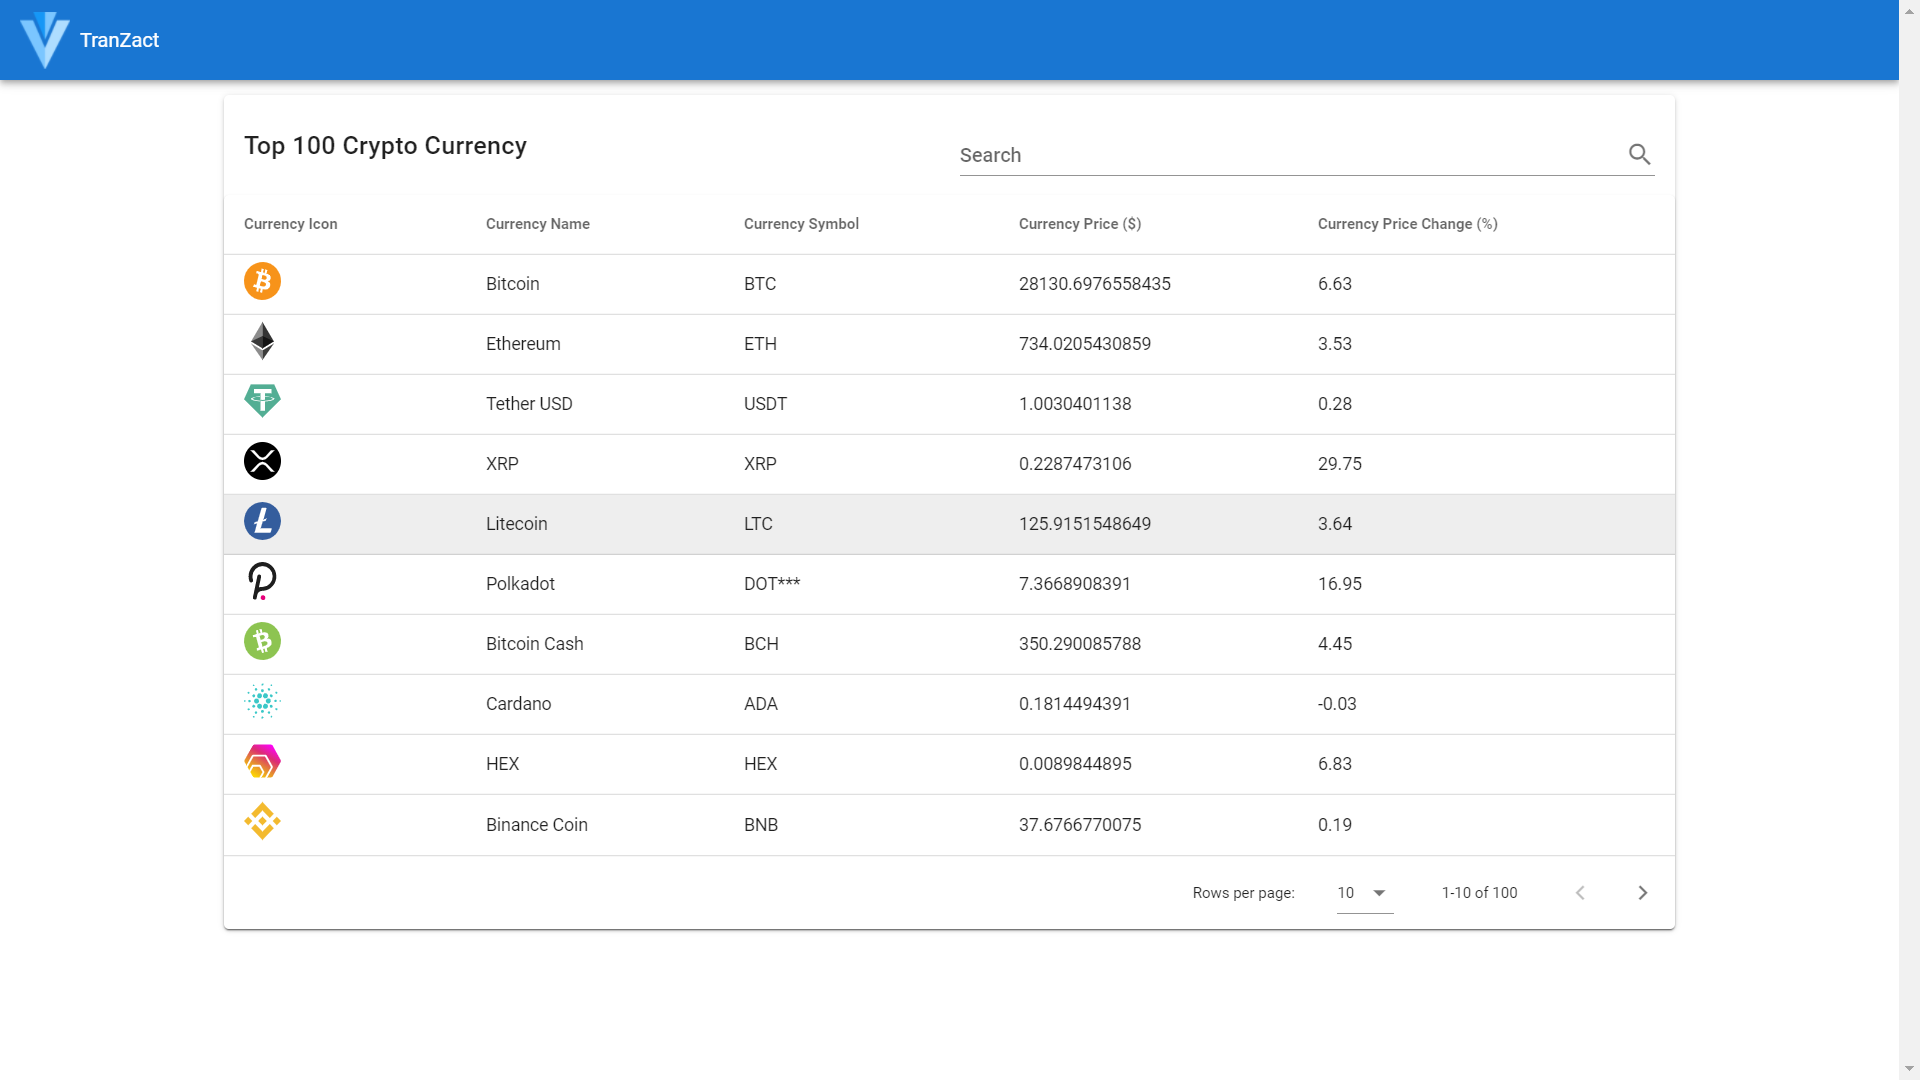
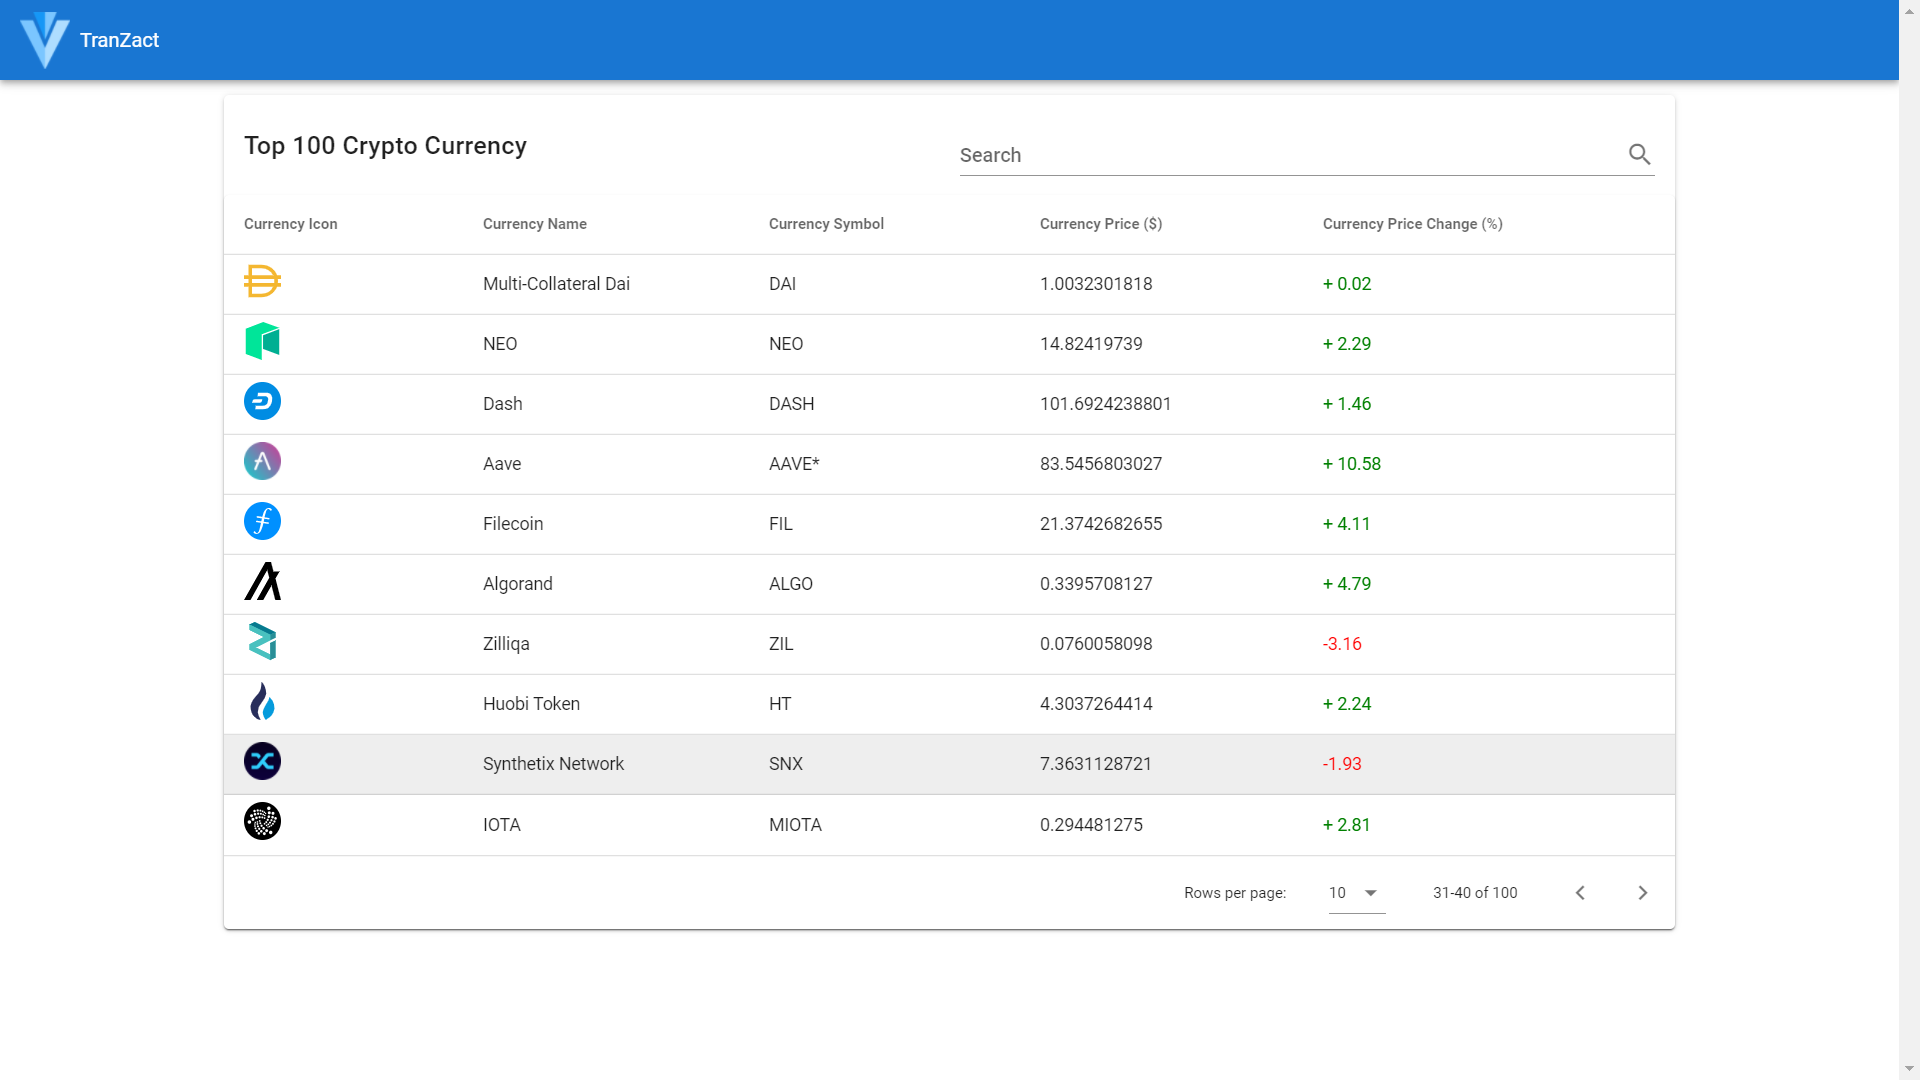
added green and red color to changes

diff --git a/src/components/Crypto.vue b/src/components/Crypto.vue
@@ -22,8 +22,17 @@
   <template v-slot:[`item.icon`]="{ item }">
     <img :src="item.icon" style="width: 30px; height: 30px" />    
   </template>
+  <!-- <template v-slot:[`item.price_change`]="{ item }">
+    <span style="width: 30px; height: 30px ; color:'green' "> {{item.price_change}} </span>
+  </template> -->
   
-  
+  <template v-slot:[`item.price_change`]="{ item }">
+      <span v-bind:class="getColor(item.price_change)" >
+        <span v-if="item.price_change > 0"> + </span>
+        {{ item.price_change }}
+      </span>
+    </template>
+
   </v-data-table>
 </v-card>
 </template>
@@ -49,6 +58,22 @@
       return this.$store.getters.getCoins;
       }
   },
+  methods: {
+      getColor (change) {
+        if (change > 0) return 'positive'
+        else if (change < 0) return 'negative'
+        
+      },
+    },
   }
   
 </script>
+
+<style scoped>
+.positive{
+  color:green
+}
+.negative{
+  color: red;
+}
+</style>

diff --git a/README.md b/README.md
@@ -1,6 +1,6 @@
 # Top 100 Crypto Currencies
 
-This project shows real time rates of top 100 crypto currencies where the data is fetched from ```https://api.coinranking.com/v1/public/coins/?limit=100``` API and the data is stored in Vuex(Vue State management library). The rates keep on updating on regular interval of times so that we always get the latest rates. It shows the rates in form of Vuetify Data table where we can see the number of records we want to see, search a particular crypto currency and sort them on any column.
+This project shows real time rates of top 100 crypto currencies where the data is fetched from ```https://api.coinranking.com/v1/public/coins/?limit=100``` API and the data is stored in Vuex(Vue State management library). The rates keep on updating on regular interval of times so that we always get the latest rates. It shows the rates in form of Vuetify Data table where we can see the number of records we want to see, search a particular crypto currency and sort them on any column. Also the changes are shown in green if it's positive and in red if it's negative.
 
 ![Main table](homepage.png)
 
